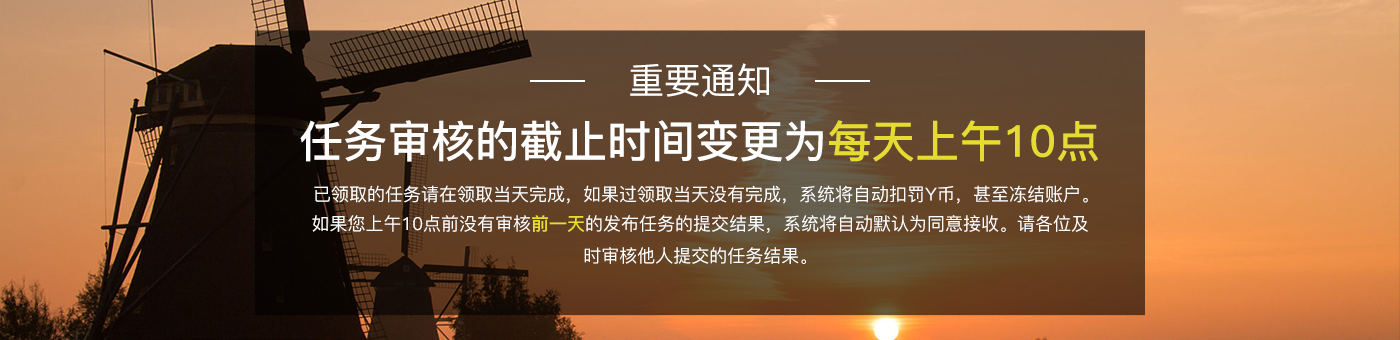
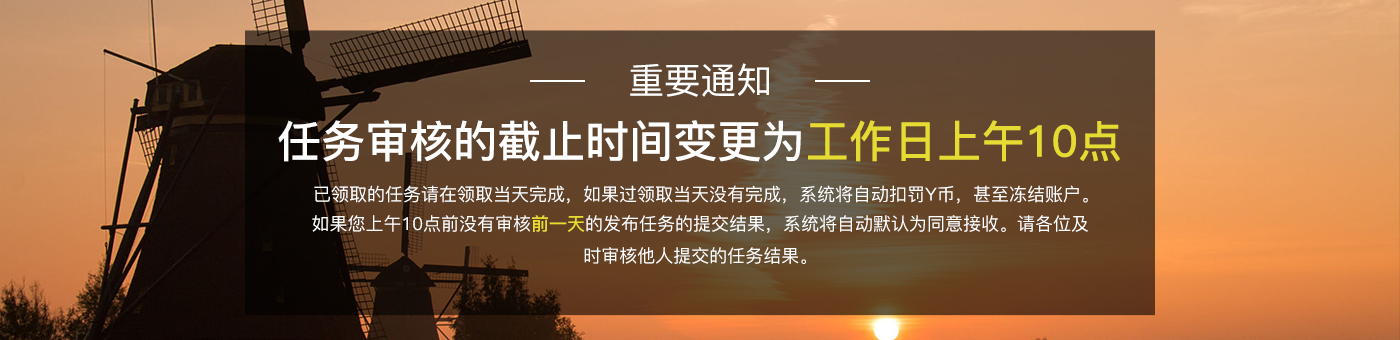
dotask

Changed region(s): [[0.1843, 0.0882, 0.8293, 0.9412], [0.1536, 0.0882, 0.1843, 0.1471]]

diff --git a/views/doTask.html b/views/doTask.html
@@ -50,19 +50,23 @@
     <!-- 轮播（Carousel）指标 -->
 
     <ol class="carousel-indicators">
-        <li data-target="#myCarousel" data-slide-to="0" class="active" ></li>
-        <li data-target="#myCarousel" data-slide-to="1"></li>
+        <!--<li data-target="#myCarousel" data-slide-to="0" class="active" ></li>-->
+        <!--<li data-target="#myCarousel" data-slide-to="1"></li>-->
+        <!--<li data-target="#myCarousel" data-slide-to="2"></li>-->
 
     </ol>
     <!-- 轮播（Carousel）项目 -->
     <div class="carousel-inner">
         <div class="item active">
 
-            <img class='foo' src="/images/doTask/notice.png" style="width: 100vw; margin-top:50px"/>
+            <!--<img class='foo' src="/images/doTask/notice.png" style="width: 100vw; margin-top:50px"/>-->
 
         </div>
         <div class="item">
-            <img class='foo' src="/images/doTask/guide.png" style="width: 100vw; margin-top: 50px;"/>
+            <!--<img class='foo' src="/images/doTask/guide.png" style="width: 100vw; margin-top: 50px;"/>-->
+        </div>
+        <div class="item">
+            <img class='foo' src="/images/doTask/maintain.png" style="width: 100vw; margin-top: 50px;"/>
         </div>
 
     </div>
@@ -72,13 +76,13 @@
     <a class="carousel-control right" href="#myCarousel"
        data-slide="next">&rsaquo;</a>
 
-    <a href=""  data-toggle="modal" data-target="#releaseTaskVideo" class="releaseTaskVideo" style="outline: none">
+    <!--<a href=""  data-toggle="modal" data-target="#releaseTaskVideo" class="releaseTaskVideo" style="outline: none">-->
 
     </a>
-    <a href=""  data-toggle="modal" data-target="#getTaskVideo"  class="getTaskVideo"  style="outline: none" >
+    <!--<a href=""  data-toggle="modal" data-target="#getTaskVideo"  class="getTaskVideo"  style="outline: none" >-->
 
     </a>
-    <a href=""  data-toggle="modal" data-target="#uploadTaskVideo" class="uploadTaskVideo" style="outline: none">
+    <!--<a href=""  data-toggle="modal" data-target="#uploadTaskVideo" class="uploadTaskVideo" style="outline: none">-->
 
     </a>
 
